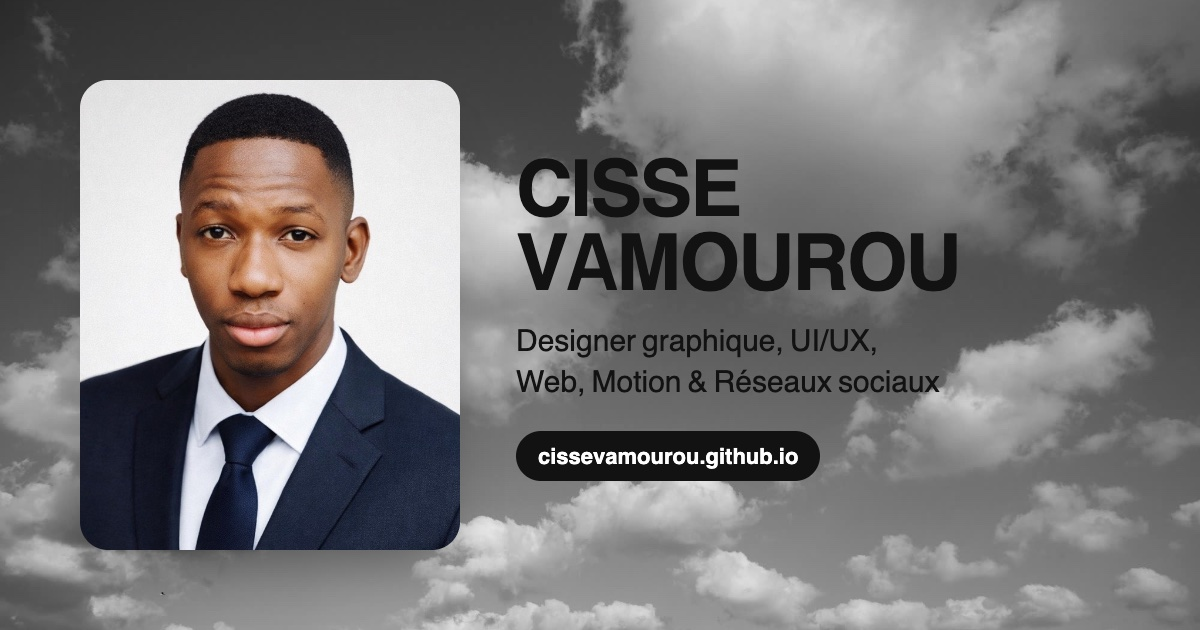
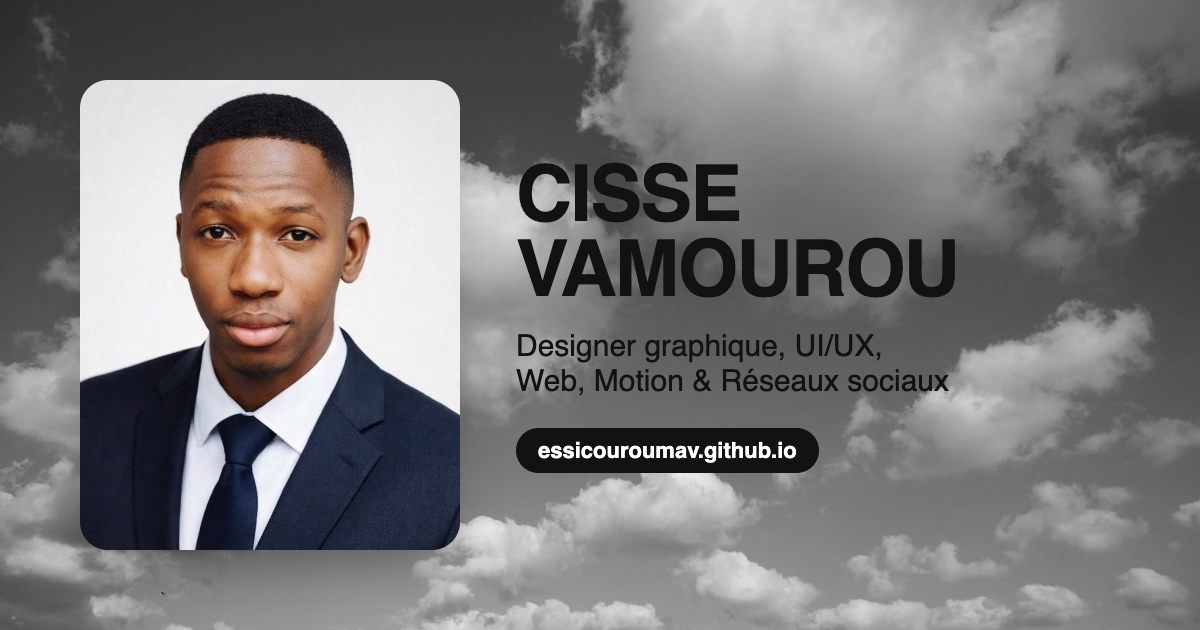
Publication sur essicouroumav.github.io

Changed region(s): [[0.4317, 0.2413, 0.8017, 0.4825], [0.4317, 0.5127, 0.8017, 0.6333], [0.4317, 0.6635, 0.6783, 0.7841]]

diff --git a/app/data.js b/app/data.js
@@ -1,7 +1,7 @@
 // Contenu du portfolio. Chaque texte a sa version française (fr) et anglaise (en).
 // Ajouter un projet = ajouter une entrée dans `projects` (image dans public/images/projects/).
 
-export const SITE_URL = "https://cissevamourou.github.io";
+export const SITE_URL = "https://essicouroumav.github.io";
 
 export const profile = {
   name: "Cisse Vamourou",

diff --git a/docs/PROGRESS.md b/docs/PROGRESS.md
@@ -1,6 +1,6 @@
 # Avancement : portfolio Cisse Vamourou
 
-Plan validé le 2026-10-30. Next.js 15.5 export statique → GitHub Pages (`cissevamourou.github.io`, après renommage du compte).
+Plan validé le 2026-10-30. Next.js 15.5 export statique → GitHub Pages (publié d'abord sur `essicouroumav.github.io` le 2026-11-07, à la demande du propriétaire ; renommage en `cissevamourou` reporté).
 
 ## Fait
 - Lot 1 : socle Next.js figé, workflow GitHub Pages, `.gitignore`. `npm audit` : 2 alertes postcss (outil de build) corrigées par `overrides` sans montée majeure de Next.

diff --git a/README.md b/README.md
@@ -1,7 +1,7 @@
 # Portfolio de Cisse Vamourou
 
 Designer graphique, UI/UX, web, motion design et gestion des réseaux sociaux, Abidjan.
-En ligne : https://cissevamourou.github.io
+En ligne : https://essicouroumav.github.io
 
 ## Modifier le contenu
 Tout est dans `app/data.js` (projets, services, outils, parcours) et `app/dict.js` (textes de l'interface), en français et en anglais.
